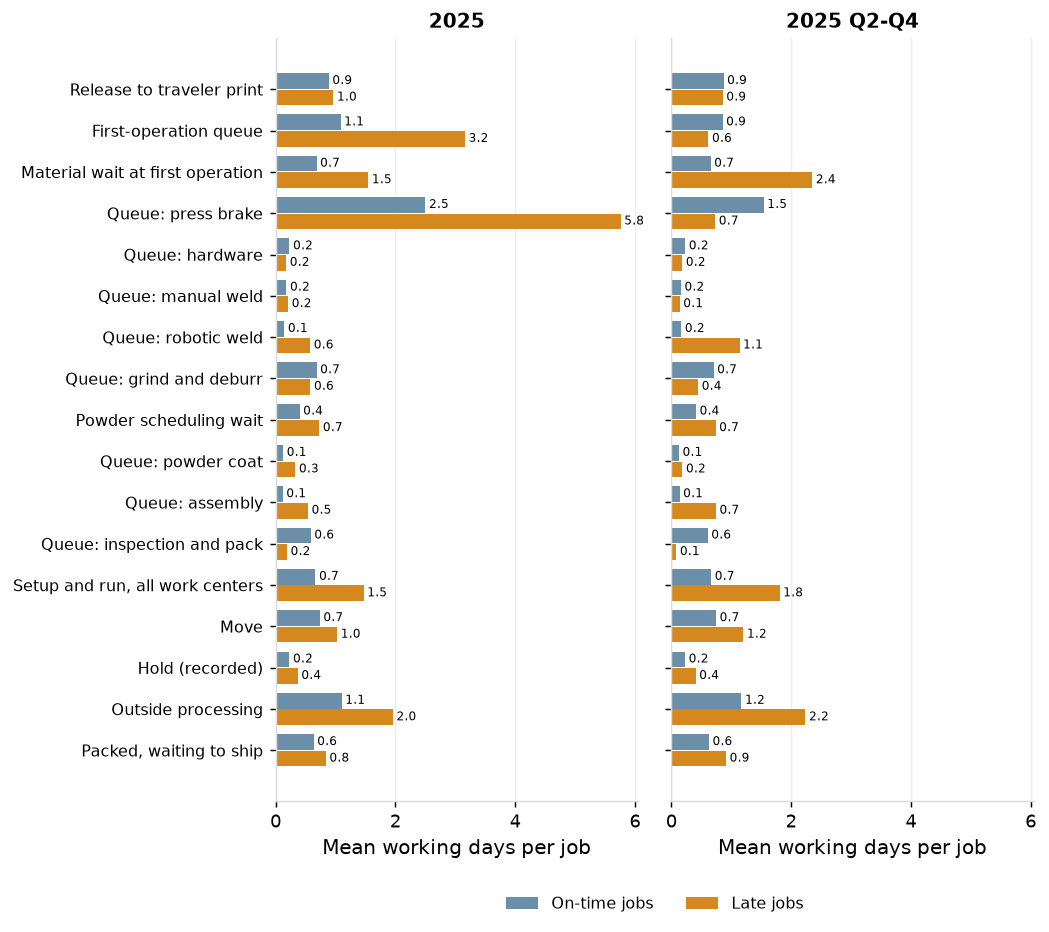
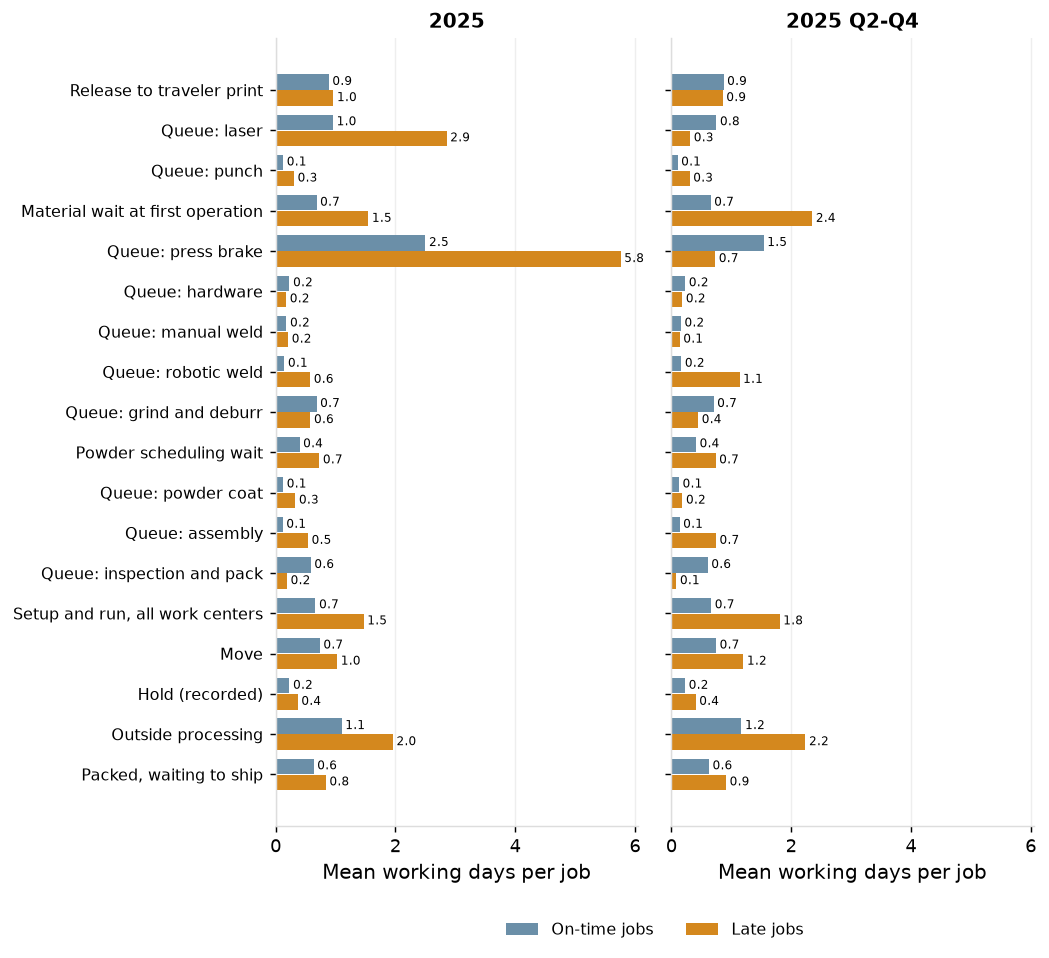
Flow report: laser and punch queues shown separately on the stage chart

diff --git a/docs/reports/lead_time_and_late_jobs.html b/docs/reports/lead_time_and_late_jobs.html
@@ -89,7 +89,7 @@ nav.toc a.sub { font-size: 12px; padding-left: 22px; }
 <h3 id='f3_2'>Late job lead time decomposition</h3>
 <p>In 2025, the brake queue was 24% of all jobs' lead time and accounted for the largest share of the extra days on late jobs: 5.76 days against 2.50 for on-time jobs. This was due to the first quarter's backlog: the 2024 year-end build released more work than the brakes could absorb and put 664 of the year's 987 late jobs into Q1. In Q2-Q4, with the backlog cleared, late jobs waited less at the brakes than on-time jobs (0.73 days against 1.54).</p>
 <p>In Q2-Q4, the extra days on late jobs were due to material wait at the first operation (2.35 days for late jobs vs. 0.65 for on-time jobs), outside processing (2.24 vs. 1.17), the robotic weld queue (1.14 vs. 0.17) and setup and run (1.81 vs. 0.66; the average lot size for late jobs was 72 pieces vs. 47 for on-time jobs). See Appendix Tables <a href='#t7a'>7a</a> and <a href='#t7b'>7b</a> for additional detail.</p>
-<div class='chart-title'>Lead time by stage, on-time vs. late jobs</div><img alt="Lead time by stage, on-time and late jobs" src="../figures/lead_time_stage_decomposition.png?v=413eff82">
+<div class='chart-title'>Lead time by stage, on-time vs. late jobs</div><img alt="Lead time by stage, on-time and late jobs" src="../figures/lead_time_stage_decomposition.png?v=c13c39b7">
 
 
 <h3 id='f3_3'>Drivers behind late jobs</h3>

diff --git a/analytics/lead_time/sections.py b/analytics/lead_time/sections.py
@@ -201,10 +201,29 @@ def fig_distribution():
     return save(f, "lead_time_distribution", "Lead time distribution by routing class")
 
 
+def first_cut(quarters):
+    """The first-operation queue split between the lasers and the punch: mean working days per job, for on-time and late jobs shipped in the given quarters."""
+    d = q(f"""select case when l.on_time then 'on time' else 'late' end as job_class, s.work_center, sum(s.days) as days
+              from intermediate.int_job_lead_time l left join intermediate.int_job_stage_days s on s.job_id = l.job_id and s.stage = 'first-operation queue'
+              where year(l.ship_date) = {YEAR} and quarter(l.ship_date) in ({", ".join(str(k) for k in quarters)}) group by 1, 2""")
+    n = q(f"""select case when on_time then 'on time' else 'late' end as job_class, count(*) as jobs from intermediate.int_job_lead_time
+              where year(ship_date) = {YEAR} and quarter(ship_date) in ({", ".join(str(k) for k in quarters)}) group by 1""").set_index("job_class")["jobs"]
+    g = d.dropna(subset=["work_center"]).pivot(index="work_center", columns="job_class", values="days").fillna(0.0)
+    assert set(g.index) == set(CUT)
+    return g[["on time", "late"]] / n[["on time", "late"]]
+
+
 def fig_stages_report():
-    f, axes = fig(h=7.2, ncols=2, grid="x", sharey=True, sharex=True)
-    for ax, (p, label) in zip(axes, ((SY, f"{YEAR}"), (SR, f"{YEAR} {RT}"))):
+    f, axes = fig(h=7.4, ncols=2, grid="x", sharey=True, sharex=True)
+    for ax, (p, label, quarters) in zip(axes, ((SY, f"{YEAR}", (1, 2, 3, 4)), (SR, f"{YEAR} {RT}", (2, 3, 4)))):
         g = p.copy()
+        cut = first_cut(quarters)
+        assert all(abs(cut[c].sum() - g.loc["first-operation queue", c]) < 1e-9 for c in ("on time", "late"))
+        at = g.loc["first-operation queue", "order"]
+        g = g.drop(index="first-operation queue")
+        for k, wc in enumerate(CUT):
+            g.loc[f"queue: {wc}", ["on time", "late"]] = cut.loc[wc].values
+            g.loc[f"queue: {wc}", "order"] = at + 0.1 * k
         holds = g[g.index.str.startswith("hold:")][["on time", "late"]].sum()
         g = g[~g.index.str.startswith("hold:")]
         g.loc["hold (recorded)", ["on time", "late"]] = holds.values
